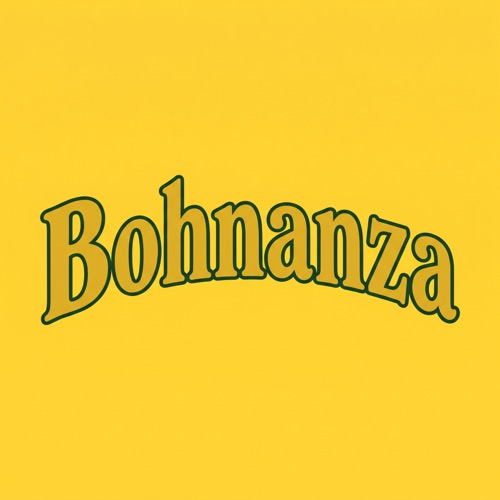
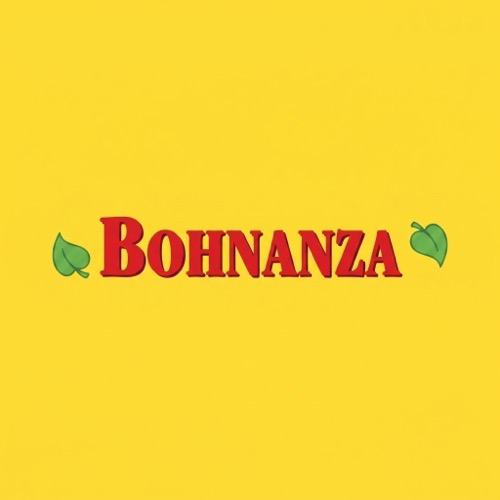
v3.4.0.h board-game: Bohnanza hero 跟返原盒真實配色 (紅字 + 黃底 + 縮細 + 2 豆葉) + CSS 縮返細
修正 v3.4.0.g Bohnanza hero 投訴: 用咗金字 + 深綠 outline, 完全唔同原盒。
原盒實際: 紅色字 (BOHNANZA + 眾豆得金) + 黃色底 + 豆葉裝飾 + hand-drawn cartoonish 風格。

新 Bohnanza hero:
- 黃底 #FFD93D (跟原盒邊框)
- 紅字 #C8102E 'BOHNANZA' hand-drawn cartoonish 風格 (跟原盒印刷)
- 字 size 縮 (約 40% canvas, 留多 margin)
- 兩旁 2 個綠色豆葉裝飾 (跟原盒頂部裝飾)

CSS .game-hero figure img 縮返細:
- width: 100% → auto
- max-height: 320px → 240px
- max-width: 加 360px
- object-fit: cover → contain (保留 hero 完整)
- display: inline-block (figure text-align: center)

Stat: 1 個 hero image overwrite, 1 個 CSS rule 改, 9 個 HTML file (因 build_pages.py 自動 regen, 但內容唔變, 只係 BUILD_HASH 更新)。

其他 8 個 game hero 唔做, 等 user 確認 Bohnanza 效果。

Changed region(s): [[0.06, 0.33, 0.93, 0.66]]

diff --git a/board-game/index.html b/board-game/index.html
@@ -74,7 +74,7 @@
 
         <div class="game-grid" id="game-grid">
         <a class="game-card" href="bohnanza.html" data-players="2-4 5+ 6+" data-time="31-60" data-diff="mid" data-type="vs" data-cn="繁中 簡中">
-            <div class="game-card-box"><img src="images/bohnanza-box.jpg?v=2583ba0" alt="眾豆得金 盒面" loading="lazy"></div>
+            <div class="game-card-box"><img src="images/bohnanza-box.jpg?v=e36c86b" alt="眾豆得金 盒面" loading="lazy"></div>
             <div class="game-card-body">
                 <h3 class="game-card-name-zh">眾豆得金</h3>
                 <p class="game-card-name-en">Bohnanza</p>
@@ -87,7 +87,7 @@
             </div>
         </a>
         <a class="game-card" href="camel-up.html" data-players="2-4 5+ 6+" data-time="30" data-diff="easy" data-type="party" data-cn="繁中 簡中">
-            <div class="game-card-box"><img src="images/camel-up-box.jpg?v=2583ba0" alt="駱駝大賽 2.0 盒面" loading="lazy"></div>
+            <div class="game-card-box"><img src="images/camel-up-box.jpg?v=e36c86b" alt="駱駝大賽 2.0 盒面" loading="lazy"></div>
             <div class="game-card-body">
                 <h3 class="game-card-name-zh">駱駝大賽 2.0</h3>
                 <p class="game-card-name-en">Camel Up 2.0</p>
@@ -100,7 +100,7 @@
             </div>
         </a>
         <a class="game-card" href="catan.html" data-players="2-4" data-time="31-60" data-diff="hard" data-type="vs" data-cn="繁中 簡中">
-            <div class="game-card-box"><img src="images/catan-box.jpg?v=2583ba0" alt="卡坦島 盒面" loading="lazy"></div>
+            <div class="game-card-box"><img src="images/catan-box.jpg?v=e36c86b" alt="卡坦島 盒面" loading="lazy"></div>
             <div class="game-card-body">
                 <h3 class="game-card-name-zh">卡坦島</h3>
                 <p class="game-card-name-en">Catan</p>
@@ -113,7 +113,7 @@
             </div>
         </a>
         <a class="game-card" href="dnup.html" data-players="2-4 5+" data-time="30" data-diff="easy" data-type="party" data-cn="eng">
-            <div class="game-card-box"><img src="images/dnup-box.jpg?v=2583ba0" alt="dnup 盒面" loading="lazy"></div>
+            <div class="game-card-box"><img src="images/dnup-box.jpg?v=e36c86b" alt="dnup 盒面" loading="lazy"></div>
             <div class="game-card-body">
                 <h3 class="game-card-name-zh">dnup</h3>
                 <p class="game-card-name-en">DNUP</p>
@@ -126,7 +126,7 @@
             </div>
         </a>
         <a class="game-card" href="manila.html" data-players="2-4 5+" data-time="31-60" data-diff="hard" data-type="vs" data-cn="eng">
-            <div class="game-card-box"><img src="images/manila-box.jpg?v=2583ba0" alt="馬尼拉 盒面" loading="lazy"></div>
+            <div class="game-card-box"><img src="images/manila-box.jpg?v=e36c86b" alt="馬尼拉 盒面" loading="lazy"></div>
             <div class="game-card-body">
                 <h3 class="game-card-name-zh">馬尼拉</h3>
                 <p class="game-card-name-en">Manila</p>
@@ -139,7 +139,7 @@
             </div>
         </a>
         <a class="game-card" href="project-l.html" data-players="2-4" data-time="30" data-diff="mid" data-type="vs" data-cn="繁中 簡中">
-            <div class="game-card-box"><img src="images/project-l-box.jpg?v=2583ba0" alt="L 計畫 盒面" loading="lazy"></div>
+            <div class="game-card-box"><img src="images/project-l-box.jpg?v=e36c86b" alt="L 計畫 盒面" loading="lazy"></div>
             <div class="game-card-body">
                 <h3 class="game-card-name-zh">L 計畫</h3>
                 <p class="game-card-name-en">Project L</p>
@@ -152,7 +152,7 @@
             </div>
         </a>
         <a class="game-card" href="seti.html" data-players="2-4" data-time="60+" data-diff="hard" data-type="vs" data-cn="eng">
-            <div class="game-card-box"><img src="images/seti-box.jpg?v=2583ba0" alt="SETI: 搜尋地外文明 盒面" loading="lazy"></div>
+            <div class="game-card-box"><img src="images/seti-box.jpg?v=e36c86b" alt="SETI: 搜尋地外文明 盒面" loading="lazy"></div>
             <div class="game-card-body">
                 <h3 class="game-card-name-zh">SETI: 搜尋地外文明</h3>
                 <p class="game-card-name-en">SETI</p>
@@ -165,7 +165,7 @@
             </div>
         </a>
         <a class="game-card" href="spots.html" data-players="2-4" data-time="30" data-diff="easy" data-type="party" data-cn="簡中">
-            <div class="game-card-box"><img src="images/spots-box.jpg?v=2583ba0" alt="斑點狗 盒面" loading="lazy"></div>
+            <div class="game-card-box"><img src="images/spots-box.jpg?v=e36c86b" alt="斑點狗 盒面" loading="lazy"></div>
             <div class="game-card-body">
                 <h3 class="game-card-name-zh">斑點狗</h3>
                 <p class="game-card-name-en">Spots</p>
@@ -178,7 +178,7 @@
             </div>
         </a>
         <a class="game-card" href="take-time.html" data-players="2-4" data-time="30" data-diff="easy" data-type="coop" data-cn="繁中 簡中">
-            <div class="game-card-box"><img src="images/take-time-box.jpg?v=2583ba0" alt="掌握時刻 盒面" loading="lazy"></div>
+            <div class="game-card-box"><img src="images/take-time-box.jpg?v=e36c86b" alt="掌握時刻 盒面" loading="lazy"></div>
             <div class="game-card-body">
                 <h3 class="game-card-name-zh">掌握時刻</h3>
                 <p class="game-card-name-en">Take Time</p>

diff --git a/board-game/5-person-games.html b/board-game/5-person-games.html
@@ -29,7 +29,7 @@
 
         <div class="article-games">
         <a class="article-game-card" href="camel-up.html">
-            <div class="article-game-card-box"><img src="images/camel-up-box.jpg?v=2583ba0" alt="駱駝大賽 2.0 盒面" loading="lazy"></div>
+            <div class="article-game-card-box"><img src="images/camel-up-box.jpg?v=e36c86b" alt="駱駝大賽 2.0 盒面" loading="lazy"></div>
             <div class="article-game-card-body">
                 <h3 class="article-game-card-name-zh">駱駝大賽 2.0</h3>
                 <p class="article-game-card-name-en">Camel Up 2.0</p>
@@ -43,7 +43,7 @@
             </div>
         </a>
         <a class="article-game-card" href="bohnanza.html">
-            <div class="article-game-card-box"><img src="images/bohnanza-box.jpg?v=2583ba0" alt="眾豆得金 盒面" loading="lazy"></div>
+            <div class="article-game-card-box"><img src="images/bohnanza-box.jpg?v=e36c86b" alt="眾豆得金 盒面" loading="lazy"></div>
             <div class="article-game-card-body">
                 <h3 class="article-game-card-name-zh">眾豆得金</h3>
                 <p class="article-game-card-name-en">Bohnanza</p>
@@ -57,7 +57,7 @@
             </div>
         </a>
         <a class="article-game-card" href="catan.html">
-            <div class="article-game-card-box"><img src="images/catan-box.jpg?v=2583ba0" alt="卡坦島 盒面" loading="lazy"></div>
+            <div class="article-game-card-box"><img src="images/catan-box.jpg?v=e36c86b" alt="卡坦島 盒面" loading="lazy"></div>
             <div class="article-game-card-body">
                 <h3 class="article-game-card-name-zh">卡坦島</h3>
                 <p class="article-game-card-name-en">Catan</p>
@@ -71,7 +71,7 @@
             </div>
         </a>
         <a class="article-game-card" href="manila.html">
-            <div class="article-game-card-box"><img src="images/manila-box.jpg?v=2583ba0" alt="馬尼拉 盒面" loading="lazy"></div>
+            <div class="article-game-card-box"><img src="images/manila-box.jpg?v=e36c86b" alt="馬尼拉 盒面" loading="lazy"></div>
             <div class="article-game-card-body">
                 <h3 class="article-game-card-name-zh">馬尼拉</h3>
                 <p class="article-game-card-name-en">Manila</p>
@@ -85,7 +85,7 @@
             </div>
         </a>
         <a class="article-game-card" href="seti.html">
-            <div class="article-game-card-box"><img src="images/seti-box.jpg?v=2583ba0" alt="SETI: 搜尋地外文明 盒面" loading="lazy"></div>
+            <div class="article-game-card-box"><img src="images/seti-box.jpg?v=e36c86b" alt="SETI: 搜尋地外文明 盒面" loading="lazy"></div>
             <div class="article-game-card-body">
                 <h3 class="article-game-card-name-zh">SETI: 搜尋地外文明</h3>
                 <p class="article-game-card-name-en">SETI</p>

diff --git a/board-game/chinese-edition.html b/board-game/chinese-edition.html
@@ -29,7 +29,7 @@
 
         <div class="article-games">
         <a class="article-game-card" href="bohnanza.html">
-            <div class="article-game-card-box"><img src="images/bohnanza-box.jpg?v=2583ba0" alt="眾豆得金 盒面" loading="lazy"></div>
+            <div class="article-game-card-box"><img src="images/bohnanza-box.jpg?v=e36c86b" alt="眾豆得金 盒面" loading="lazy"></div>
             <div class="article-game-card-body">
                 <h3 class="article-game-card-name-zh">眾豆得金</h3>
                 <p class="article-game-card-name-en">Bohnanza</p>
@@ -43,7 +43,7 @@
             </div>
         </a>
         <a class="article-game-card" href="catan.html">
-            <div class="article-game-card-box"><img src="images/catan-box.jpg?v=2583ba0" alt="卡坦島 盒面" loading="lazy"></div>
+            <div class="article-game-card-box"><img src="images/catan-box.jpg?v=e36c86b" alt="卡坦島 盒面" loading="lazy"></div>
             <div class="article-game-card-body">
                 <h3 class="article-game-card-name-zh">卡坦島</h3>
                 <p class="article-game-card-name-en">Catan</p>
@@ -57,7 +57,7 @@
             </div>
         </a>
         <a class="article-game-card" href="take-time.html">
-            <div class="article-game-card-box"><img src="images/take-time-box.jpg?v=2583ba0" alt="掌握時刻 盒面" loading="lazy"></div>
+            <div class="article-game-card-box"><img src="images/take-time-box.jpg?v=e36c86b" alt="掌握時刻 盒面" loading="lazy"></div>
             <div class="article-game-card-body">
                 <h3 class="article-game-card-name-zh">掌握時刻</h3>
                 <p class="article-game-card-name-en">Take Time</p>
@@ -71,7 +71,7 @@
             </div>
         </a>
         <a class="article-game-card" href="project-l.html">
-            <div class="article-game-card-box"><img src="images/project-l-box.jpg?v=2583ba0" alt="L 計畫 盒面" loading="lazy"></div>
+            <div class="article-game-card-box"><img src="images/project-l-box.jpg?v=e36c86b" alt="L 計畫 盒面" loading="lazy"></div>
             <div class="article-game-card-body">
                 <h3 class="article-game-card-name-zh">L 計畫</h3>
                 <p class="article-game-card-name-en">Project L</p>

diff --git a/board-game/seti.html b/board-game/seti.html
@@ -33,7 +33,7 @@
                 <h1>SETI: 搜尋地外文明 (SETI)</h1>
                 <div class="game-hero-publisher">出版: Czech Games Edition (CGE) · 類別: 策略, 太空, 中重歐</div>
 
-                <figure><img src="images/seti-hero.jpg?v=2583ba0" alt="SETI: 搜尋地外文明 盒面" loading="lazy"><figcaption>SETI: 搜尋地外文明 (SETI) — Czech Games Edition (CGE)</figcaption></figure>
+                <figure><img src="images/seti-hero.jpg?v=e36c86b" alt="SETI: 搜尋地外文明 盒面" loading="lazy"><figcaption>SETI: 搜尋地外文明 (SETI) — Czech Games Edition (CGE)</figcaption></figure>
             </div>
 
             <div class="game-meta">
@@ -207,7 +207,7 @@
         <div class="side-box">
             <h3>相關 game</h3>
             <div class="related-games">
-                <a href="catan.html" class="related-game-link"><span class="related-game-thumb"><img src="images/catan-box.jpg?v=2583ba0" alt=""></span><span class="related-game-name">卡坦島</span></a><a href="project-l.html" class="related-game-link"><span class="related-game-thumb"><img src="images/project-l-box.jpg?v=2583ba0" alt=""></span><span class="related-game-name">L 計畫</span></a><a href="manila.html" class="related-game-link"><span class="related-game-thumb"><img src="images/manila-box.jpg?v=2583ba0" alt=""></span><span class="related-game-name">馬尼拉</span></a>
+                <a href="catan.html" class="related-game-link"><span class="related-game-thumb"><img src="images/catan-box.jpg?v=e36c86b" alt=""></span><span class="related-game-name">卡坦島</span></a><a href="project-l.html" class="related-game-link"><span class="related-game-thumb"><img src="images/project-l-box.jpg?v=e36c86b" alt=""></span><span class="related-game-name">L 計畫</span></a><a href="manila.html" class="related-game-link"><span class="related-game-thumb"><img src="images/manila-box.jpg?v=e36c86b" alt=""></span><span class="related-game-name">馬尼拉</span></a>
             </div>
         </div>
         

diff --git a/board-game/bohnanza.html b/board-game/bohnanza.html
@@ -33,7 +33,7 @@
                 <h1>眾豆得金 (Bohnanza)</h1>
                 <div class="game-hero-publisher">出版: Amigo (中文版: 新天鵝堡 / 玩聚設計) · 類別: 談判, 卡牌, 策略</div>
 
-                <figure><img src="images/bohnanza-hero.jpg?v=2583ba0" alt="眾豆得金 盒面" loading="lazy"><figcaption>眾豆得金 (Bohnanza) — Amigo (中文版: 新天鵝堡 / 玩聚設計)</figcaption></figure>
+                <figure><img src="images/bohnanza-hero.jpg?v=e36c86b" alt="眾豆得金 盒面" loading="lazy"><figcaption>眾豆得金 (Bohnanza) — Amigo (中文版: 新天鵝堡 / 玩聚設計)</figcaption></figure>
             </div>
 
             <div class="game-meta">
@@ -214,7 +214,7 @@
         <div class="side-box">
             <h3>相關 game</h3>
             <div class="related-games">
-                <a href="manila.html" class="related-game-link"><span class="related-game-thumb"><img src="images/manila-box.jpg?v=2583ba0" alt=""></span><span class="related-game-name">馬尼拉</span></a><a href="dnup.html" class="related-game-link"><span class="related-game-thumb"><img src="images/dnup-box.jpg?v=2583ba0" alt=""></span><span class="related-game-name">dnup</span></a><a href="catan.html" class="related-game-link"><span class="related-game-thumb"><img src="images/catan-box.jpg?v=2583ba0" alt=""></span><span class="related-game-name">卡坦島</span></a>
+                <a href="manila.html" class="related-game-link"><span class="related-game-thumb"><img src="images/manila-box.jpg?v=e36c86b" alt=""></span><span class="related-game-name">馬尼拉</span></a><a href="dnup.html" class="related-game-link"><span class="related-game-thumb"><img src="images/dnup-box.jpg?v=e36c86b" alt=""></span><span class="related-game-name">dnup</span></a><a href="catan.html" class="related-game-link"><span class="related-game-thumb"><img src="images/catan-box.jpg?v=e36c86b" alt=""></span><span class="related-game-name">卡坦島</span></a>
             </div>
         </div>
         

diff --git a/board-game/camel-up.html b/board-game/camel-up.html
@@ -33,7 +33,7 @@
                 <h1>駱駝大賽 2.0 (Camel Up 2.0)</h1>
                 <div class="game-hero-publisher">出版: Eggertspiele / Pegasus Spiele · 類別: 派對, 賭博, 家庭</div>
 
-                <figure><img src="images/camel-up-hero.jpg?v=2583ba0" alt="駱駝大賽 2.0 盒面" loading="lazy"><figcaption>駱駝大賽 2.0 (Camel Up 2.0) — Eggertspiele / Pegasus Spiele</figcaption></figure>
+                <figure><img src="images/camel-up-hero.jpg?v=e36c86b" alt="駱駝大賽 2.0 盒面" loading="lazy"><figcaption>駱駝大賽 2.0 (Camel Up 2.0) — Eggertspiele / Pegasus Spiele</figcaption></figure>
             </div>
 
             <div class="game-meta">
@@ -217,7 +217,7 @@
         <div class="side-box">
             <h3>相關 game</h3>
             <div class="related-games">
-                <a href="spots.html" class="related-game-link"><span class="related-game-thumb"><img src="images/spots-box.jpg?v=2583ba0" alt=""></span><span class="related-game-name">斑點狗</span></a><a href="dnup.html" class="related-game-link"><span class="related-game-thumb"><img src="images/dnup-box.jpg?v=2583ba0" alt=""></span><span class="related-game-name">dnup</span></a><a href="manila.html" class="related-game-link"><span class="related-game-thumb"><img src="images/manila-box.jpg?v=2583ba0" alt=""></span><span class="related-game-name">馬尼拉</span></a>
+                <a href="spots.html" class="related-game-link"><span class="related-game-thumb"><img src="images/spots-box.jpg?v=e36c86b" alt=""></span><span class="related-game-name">斑點狗</span></a><a href="dnup.html" class="related-game-link"><span class="related-game-thumb"><img src="images/dnup-box.jpg?v=e36c86b" alt=""></span><span class="related-game-name">dnup</span></a><a href="manila.html" class="related-game-link"><span class="related-game-thumb"><img src="images/manila-box.jpg?v=e36c86b" alt=""></span><span class="related-game-name">馬尼拉</span></a>
             </div>
         </div>
         

diff --git a/board-game/project-l.html b/board-game/project-l.html
@@ -33,7 +33,7 @@
                 <h1>L 計畫 (Project L)</h1>
                 <div class="game-hero-publisher">出版: Broadway Toys (中文版) · 類別: 策略, 家庭, 拼圖</div>
 
-                <figure><img src="images/project-l-hero.jpg?v=2583ba0" alt="L 計畫 盒面" loading="lazy"><figcaption>L 計畫 (Project L) — Broadway Toys (中文版)</figcaption></figure>
+                <figure><img src="images/project-l-hero.jpg?v=e36c86b" alt="L 計畫 盒面" loading="lazy"><figcaption>L 計畫 (Project L) — Broadway Toys (中文版)</figcaption></figure>
             </div>
 
             <div class="game-meta">
@@ -228,7 +228,7 @@
         <div class="side-box">
             <h3>相關 game</h3>
             <div class="related-games">
-                <a href="take-time.html" class="related-game-link"><span class="related-game-thumb"><img src="images/take-time-box.jpg?v=2583ba0" alt=""></span><span class="related-game-name">掌握時刻</span></a><a href="catan.html" class="related-game-link"><span class="related-game-thumb"><img src="images/catan-box.jpg?v=2583ba0" alt=""></span><span class="related-game-name">卡坦島</span></a><a href="seti.html" class="related-game-link"><span class="related-game-thumb"><img src="images/seti-box.jpg?v=2583ba0" alt=""></span><span class="related-game-name">SETI: 搜尋地外文明</span></a>
+                <a href="take-time.html" class="related-game-link"><span class="related-game-thumb"><img src="images/take-time-box.jpg?v=e36c86b" alt=""></span><span class="related-game-name">掌握時刻</span></a><a href="catan.html" class="related-game-link"><span class="related-game-thumb"><img src="images/catan-box.jpg?v=e36c86b" alt=""></span><span class="related-game-name">卡坦島</span></a><a href="seti.html" class="related-game-link"><span class="related-game-thumb"><img src="images/seti-box.jpg?v=e36c86b" alt=""></span><span class="related-game-name">SETI: 搜尋地外文明</span></a>
             </div>
         </div>
         

diff --git a/board-game/manila.html b/board-game/manila.html
@@ -33,7 +33,7 @@
                 <h1>馬尼拉 (Manila)</h1>
                 <div class="game-hero-publisher">出版: Zoch Verlag / Pegasus Spiele · 類別: 經濟, 賭博, 策略</div>
 
-                <figure><img src="images/manila-hero.jpg?v=2583ba0" alt="馬尼拉 盒面" loading="lazy"><figcaption>馬尼拉 (Manila) — Zoch Verlag / Pegasus Spiele</figcaption></figure>
+                <figure><img src="images/manila-hero.jpg?v=e36c86b" alt="馬尼拉 盒面" loading="lazy"><figcaption>馬尼拉 (Manila) — Zoch Verlag / Pegasus Spiele</figcaption></figure>
             </div>
 
             <div class="game-meta">
@@ -233,7 +233,7 @@
         <div class="side-box">
             <h3>相關 game</h3>
             <div class="related-games">
-                <a href="catan.html" class="related-game-link"><span class="related-game-thumb"><img src="images/catan-box.jpg?v=2583ba0" alt=""></span><span class="related-game-name">卡坦島</span></a><a href="camel-up.html" class="related-game-link"><span class="related-game-thumb"><img src="images/camel-up-box.jpg?v=2583ba0" alt=""></span><span class="related-game-name">駱駝大賽 2.0</span></a><a href="bohnanza.html" class="related-game-link"><span class="related-game-thumb"><img src="images/bohnanza-box.jpg?v=2583ba0" alt=""></span><span class="related-game-name">眾豆得金</span></a>
+                <a href="catan.html" class="related-game-link"><span class="related-game-thumb"><img src="images/catan-box.jpg?v=e36c86b" alt=""></span><span class="related-game-name">卡坦島</span></a><a href="camel-up.html" class="related-game-link"><span class="related-game-thumb"><img src="images/camel-up-box.jpg?v=e36c86b" alt=""></span><span class="related-game-name">駱駝大賽 2.0</span></a><a href="bohnanza.html" class="related-game-link"><span class="related-game-thumb"><img src="images/bohnanza-box.jpg?v=e36c86b" alt=""></span><span class="related-game-name">眾豆得金</span></a>
             </div>
         </div>
         

diff --git a/board-game/catan.html b/board-game/catan.html
@@ -33,7 +33,7 @@
                 <h1>卡坦島 (Catan)</h1>
                 <div class="game-hero-publisher">出版: Kosmos / 劍領 (中文版) · 類別: 策略, 家庭, 談判</div>
 
-                <figure><img src="images/catan-hero.jpg?v=2583ba0" alt="卡坦島 盒面" loading="lazy"><figcaption>卡坦島 (Catan) — Kosmos / 劍領 (中文版)</figcaption></figure>
+                <figure><img src="images/catan-hero.jpg?v=e36c86b" alt="卡坦島 盒面" loading="lazy"><figcaption>卡坦島 (Catan) — Kosmos / 劍領 (中文版)</figcaption></figure>
             </div>
 
             <div class="game-meta">
@@ -221,7 +221,7 @@
         <div class="side-box">
             <h3>相關 game</h3>
             <div class="related-games">
-                <a href="bohnanza.html" class="related-game-link"><span class="related-game-thumb"><img src="images/bohnanza-box.jpg?v=2583ba0" alt=""></span><span class="related-game-name">眾豆得金</span></a><a href="manila.html" class="related-game-link"><span class="related-game-thumb"><img src="images/manila-box.jpg?v=2583ba0" alt=""></span><span class="related-game-name">馬尼拉</span></a><a href="project-l.html" class="related-game-link"><span class="related-game-thumb"><img src="images/project-l-box.jpg?v=2583ba0" alt=""></span><span class="related-game-name">L 計畫</span></a>
+                <a href="bohnanza.html" class="related-game-link"><span class="related-game-thumb"><img src="images/bohnanza-box.jpg?v=e36c86b" alt=""></span><span class="related-game-name">眾豆得金</span></a><a href="manila.html" class="related-game-link"><span class="related-game-thumb"><img src="images/manila-box.jpg?v=e36c86b" alt=""></span><span class="related-game-name">馬尼拉</span></a><a href="project-l.html" class="related-game-link"><span class="related-game-thumb"><img src="images/project-l-box.jpg?v=e36c86b" alt=""></span><span class="related-game-name">L 計畫</span></a>
             </div>
         </div>
         

diff --git a/board-game/take-time.html b/board-game/take-time.html
@@ -33,7 +33,7 @@
                 <h1>掌握時刻 (Take Time)</h1>
                 <div class="game-hero-publisher">出版: Libellud (Dixit 同一間) · 類別: 家庭, 合作, 解謎</div>
 
-                <figure><img src="images/take-time-hero.jpg?v=2583ba0" alt="掌握時刻 盒面" loading="lazy"><figcaption>掌握時刻 (Take Time) — Libellud (Dixit 同一間)</figcaption></figure>
+                <figure><img src="images/take-time-hero.jpg?v=e36c86b" alt="掌握時刻 盒面" loading="lazy"><figcaption>掌握時刻 (Take Time) — Libellud (Dixit 同一間)</figcaption></figure>
             </div>
 
             <div class="game-meta">
@@ -217,7 +217,7 @@
         <div class="side-box">
             <h3>相關 game</h3>
             <div class="related-games">
-                <a href="project-l.html" class="related-game-link"><span class="related-game-thumb"><img src="images/project-l-box.jpg?v=2583ba0" alt=""></span><span class="related-game-name">L 計畫</span></a><a href="spots.html" class="related-game-link"><span class="related-game-thumb"><img src="images/spots-box.jpg?v=2583ba0" alt=""></span><span class="related-game-name">斑點狗</span></a><a href="dnup.html" class="related-game-link"><span class="related-game-thumb"><img src="images/dnup-box.jpg?v=2583ba0" alt=""></span><span class="related-game-name">dnup</span></a>
+                <a href="project-l.html" class="related-game-link"><span class="related-game-thumb"><img src="images/project-l-box.jpg?v=e36c86b" alt=""></span><span class="related-game-name">L 計畫</span></a><a href="spots.html" class="related-game-link"><span class="related-game-thumb"><img src="images/spots-box.jpg?v=e36c86b" alt=""></span><span class="related-game-name">斑點狗</span></a><a href="dnup.html" class="related-game-link"><span class="related-game-thumb"><img src="images/dnup-box.jpg?v=e36c86b" alt=""></span><span class="related-game-name">dnup</span></a>
             </div>
         </div>
         

diff --git a/board-game/spots.html b/board-game/spots.html
@@ -33,7 +33,7 @@
                 <h1>斑點狗 (Spots)</h1>
                 <div class="game-hero-publisher">出版: CMYK · 類別: 派對, push-your-luck, 家庭</div>
 
-                <figure><img src="images/spots-hero.jpg?v=2583ba0" alt="斑點狗 盒面" loading="lazy"><figcaption>斑點狗 (Spots) — CMYK</figcaption></figure>
+                <figure><img src="images/spots-hero.jpg?v=e36c86b" alt="斑點狗 盒面" loading="lazy"><figcaption>斑點狗 (Spots) — CMYK</figcaption></figure>
             </div>
 
             <div class="game-meta">
@@ -244,7 +244,7 @@
         <div class="side-box">
             <h3>相關 game</h3>
             <div class="related-games">
-                <a href="camel-up.html" class="related-game-link"><span class="related-game-thumb"><img src="images/camel-up-box.jpg?v=2583ba0" alt=""></span><span class="related-game-name">駱駝大賽 2.0</span></a><a href="take-time.html" class="related-game-link"><span class="related-game-thumb"><img src="images/take-time-box.jpg?v=2583ba0" alt=""></span><span class="related-game-name">掌握時刻</span></a><a href="dnup.html" class="related-game-link"><span class="related-game-thumb"><img src="images/dnup-box.jpg?v=2583ba0" alt=""></span><span class="related-game-name">dnup</span></a>
+                <a href="camel-up.html" class="related-game-link"><span class="related-game-thumb"><img src="images/camel-up-box.jpg?v=e36c86b" alt=""></span><span class="related-game-name">駱駝大賽 2.0</span></a><a href="take-time.html" class="related-game-link"><span class="related-game-thumb"><img src="images/take-time-box.jpg?v=e36c86b" alt=""></span><span class="related-game-name">掌握時刻</span></a><a href="dnup.html" class="related-game-link"><span class="related-game-thumb"><img src="images/dnup-box.jpg?v=e36c86b" alt=""></span><span class="related-game-name">dnup</span></a>
             </div>
         </div>
         

diff --git a/board-game/dnup.html b/board-game/dnup.html
@@ -33,7 +33,7 @@
                 <h1>dnup (DNUP)</h1>
                 <div class="game-hero-publisher">出版: Sit Down! · 類別: 派對, 卡牌</div>
 
-                <figure><img src="images/dnup-hero.jpg?v=2583ba0" alt="dnup 盒面" loading="lazy"><figcaption>dnup (DNUP) — Sit Down!</figcaption></figure>
+                <figure><img src="images/dnup-hero.jpg?v=e36c86b" alt="dnup 盒面" loading="lazy"><figcaption>dnup (DNUP) — Sit Down!</figcaption></figure>
             </div>
 
             <div class="game-meta">
@@ -231,7 +231,7 @@
         <div class="side-box">
             <h3>相關 game</h3>
             <div class="related-games">
-                <a href="bohnanza.html" class="related-game-link"><span class="related-game-thumb"><img src="images/bohnanza-box.jpg?v=2583ba0" alt=""></span><span class="related-game-name">眾豆得金</span></a><a href="camel-up.html" class="related-game-link"><span class="related-game-thumb"><img src="images/camel-up-box.jpg?v=2583ba0" alt=""></span><span class="related-game-name">駱駝大賽 2.0</span></a><a href="spots.html" class="related-game-link"><span class="related-game-thumb"><img src="images/spots-box.jpg?v=2583ba0" alt=""></span><span class="related-game-name">斑點狗</span></a>
+                <a href="bohnanza.html" class="related-game-link"><span class="related-game-thumb"><img src="images/bohnanza-box.jpg?v=e36c86b" alt=""></span><span class="related-game-name">眾豆得金</span></a><a href="camel-up.html" class="related-game-link"><span class="related-game-thumb"><img src="images/camel-up-box.jpg?v=e36c86b" alt=""></span><span class="related-game-name">駱駝大賽 2.0</span></a><a href="spots.html" class="related-game-link"><span class="related-game-thumb"><img src="images/spots-box.jpg?v=e36c86b" alt=""></span><span class="related-game-name">斑點狗</span></a>
             </div>
         </div>
         
